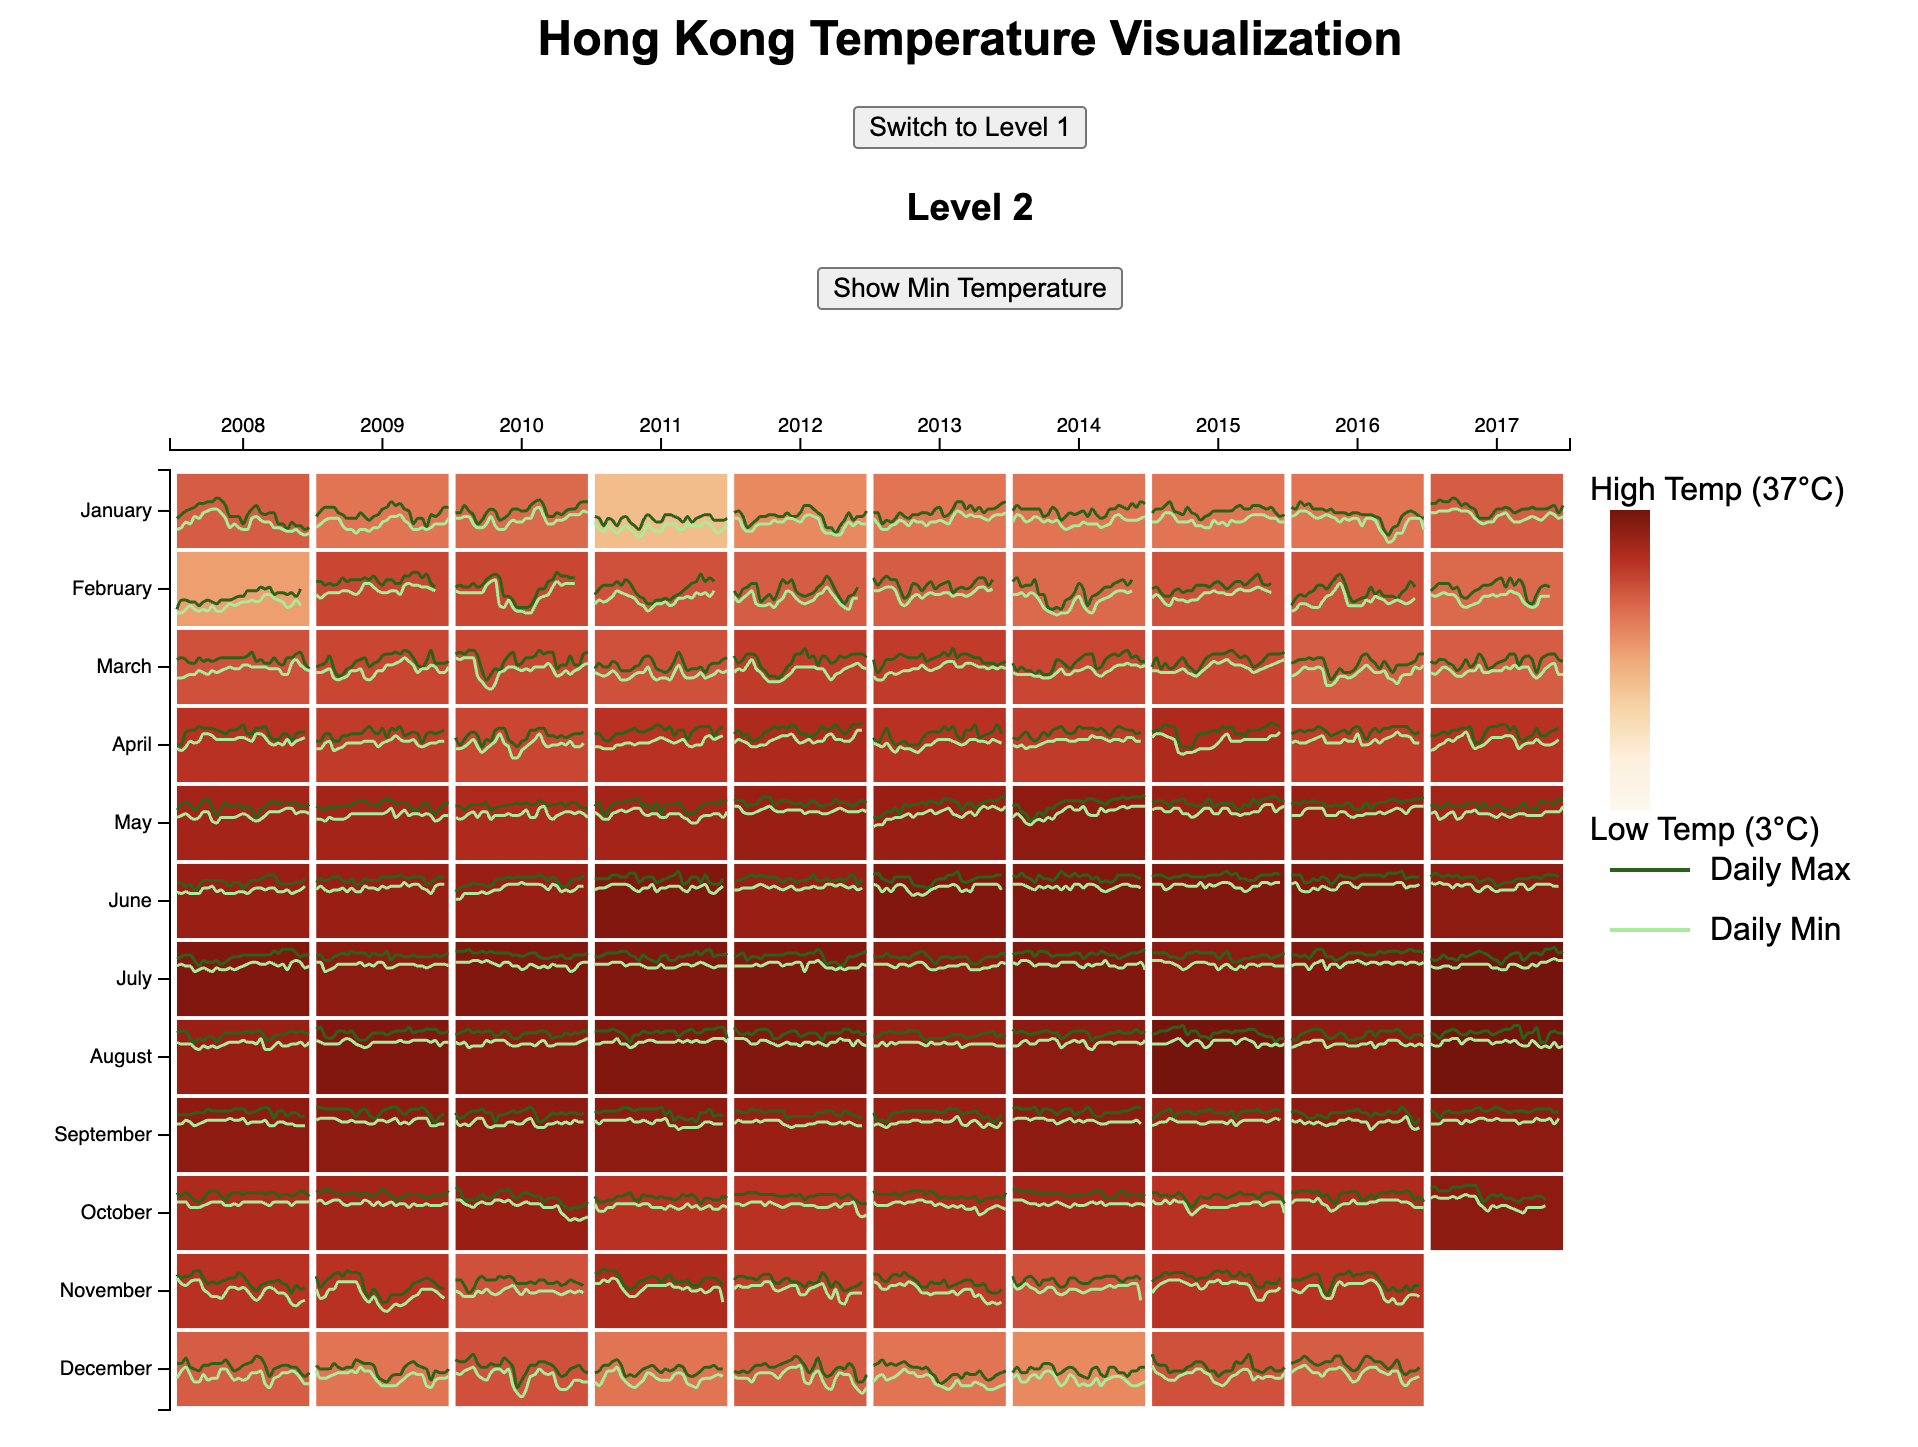
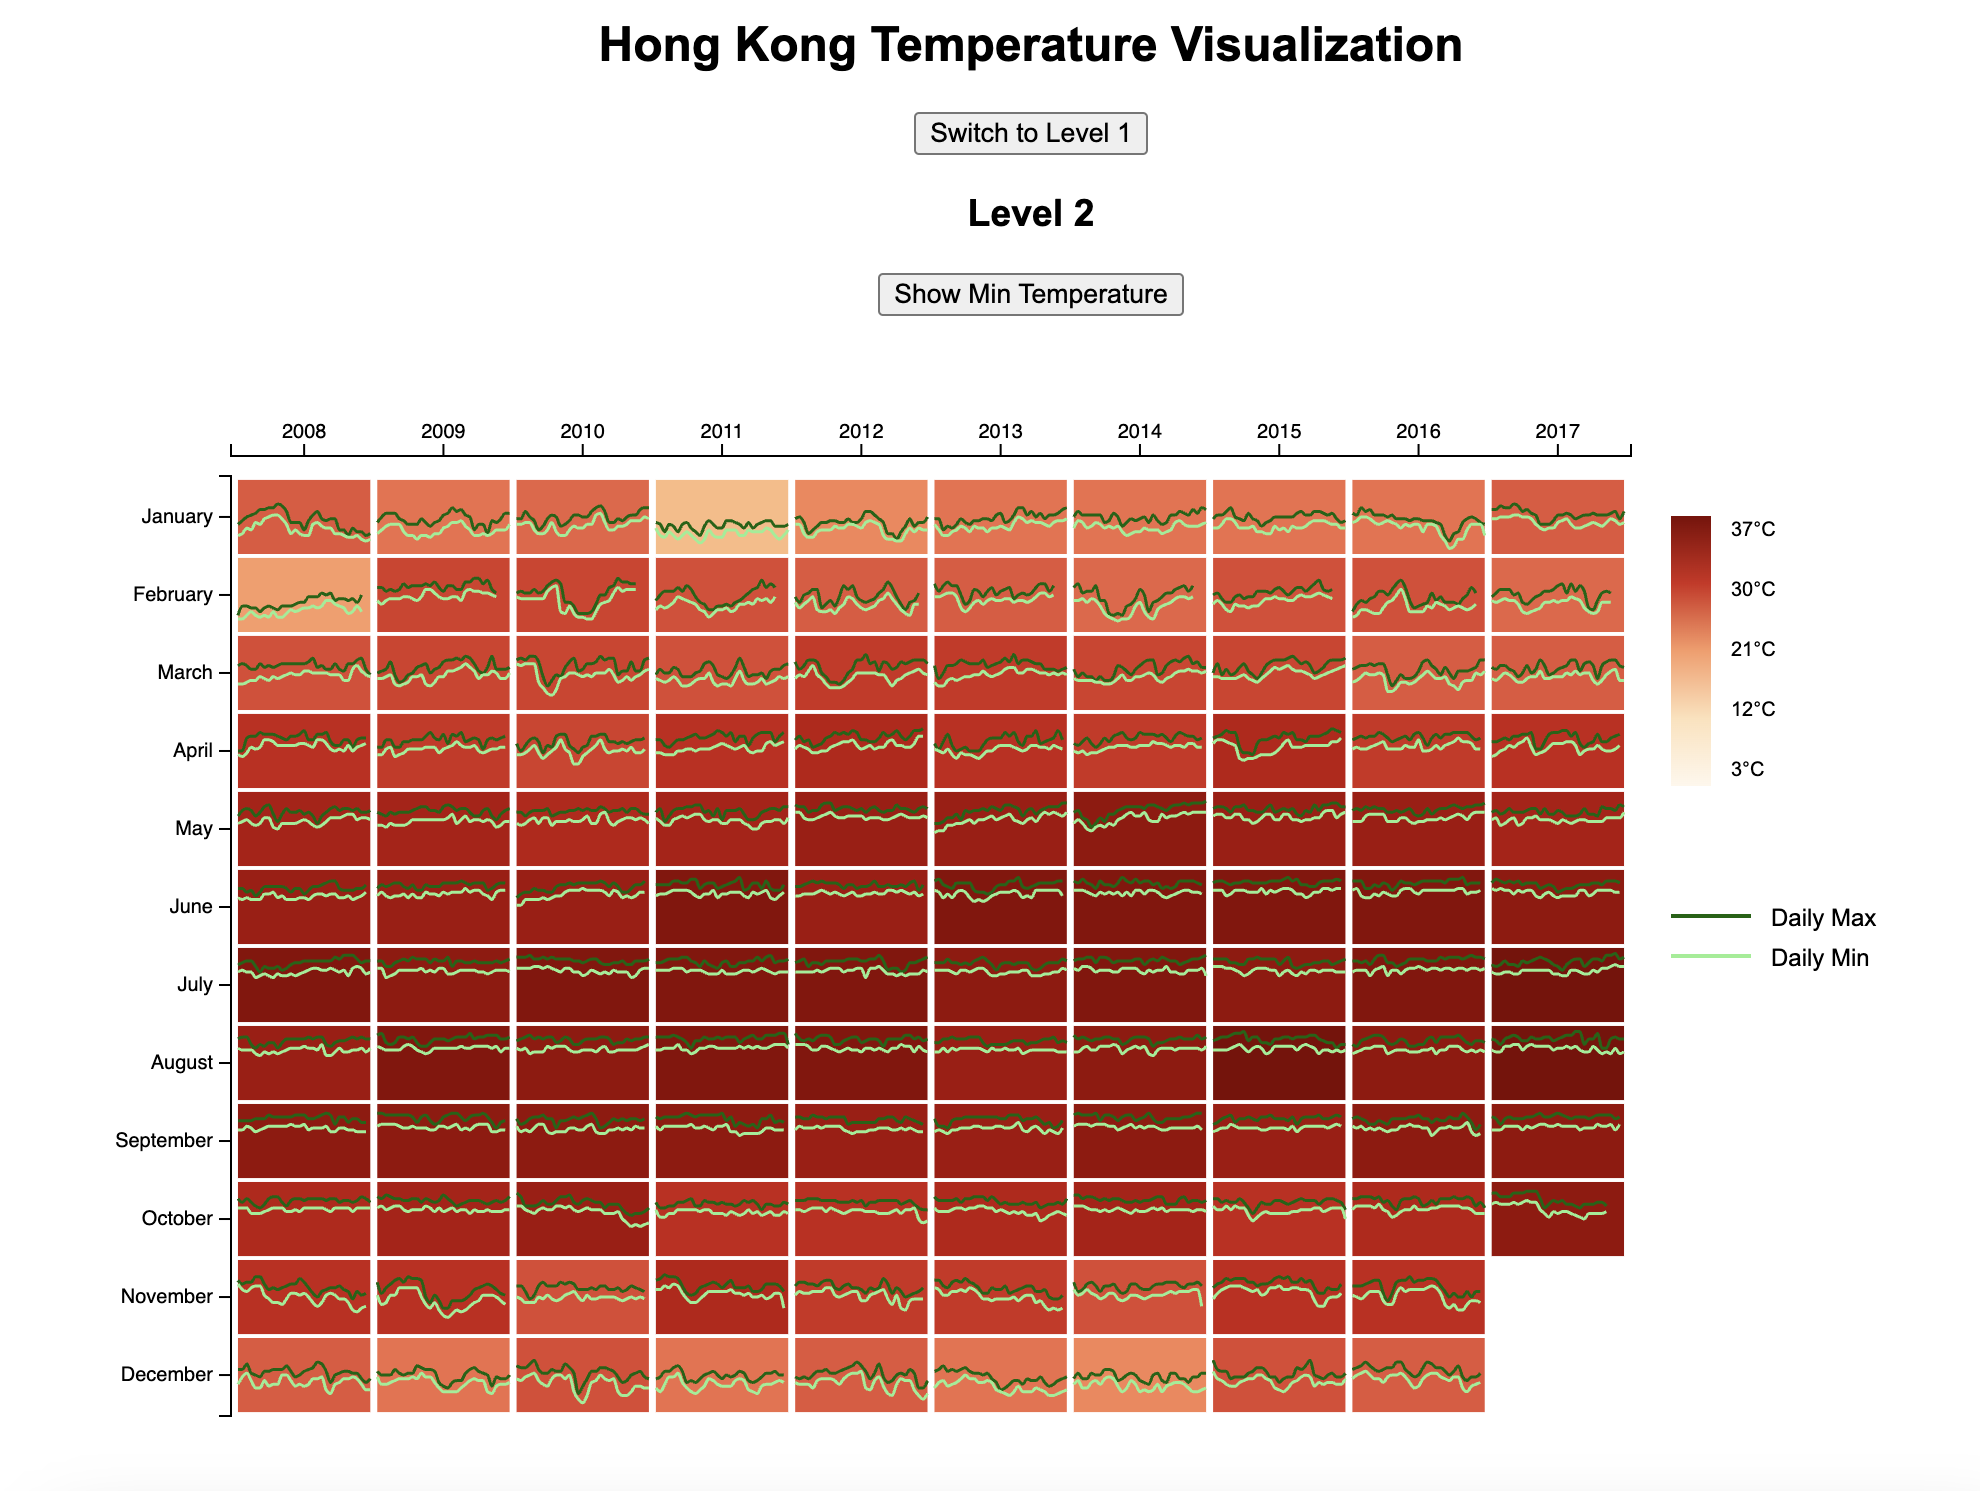
Add files via upload

Changed region(s): [[0.0308, 0.2799, 0.9536, 0.9952], [0.2769, 0.0, 0.7383, 0.1555], [0.4307, 0.1866, 0.6152, 0.2177]]

diff --git a/level2.js b/level2.js
@@ -159,14 +159,20 @@ function drawTrendLines(svg, groupedDataDaily, xScale, yScale) {
     });
 }
 
+// Function to draw the Level2's legend
 function drawLevel2Legend(svg, width, colorScale) {
     svg.selectAll(".legend-group").remove(); // Remove old legend if any
 
-    const legendGroup = svg.append("g").attr("class", "legend-group").attr("transform", `translate(${width + 20},20)`);
+    const legendGroup = svg.append("g")
+        .attr("class", "legend-group")
+        .attr("transform", `translate(${width + 20},20)`);
 
-    // Define min and max temperature values
+    // Define temperature values for legend stops
     const minTemp = 3;  
-    const maxTemp = 37;  
+    const midTemp1 = 12;  
+    const midTemp2 = 21;  
+    const midTemp3 = 30;  
+    const maxTemp = 37;   
 
     // Create a gradient for the legend
     const defs = legendGroup.append("defs");
@@ -175,38 +181,46 @@ function drawLevel2Legend(svg, width, colorScale) {
         .attr("x1", "0%").attr("x2", "0%")
         .attr("y1", "100%").attr("y2", "0%");
 
-    // Generate color stops 
-    const numStops = 6;
-    for (let i = 0; i <= numStops; i++) {
-        let t = i / numStops;
-        let tempValue = minTemp + t * (maxTemp - minTemp);
-        gradient.append("stop")
-            .attr("offset", `${t * 100}%`)
-            .attr("stop-color", colorScale(tempValue));
-    }
+    // Define temperature color stops
+    gradient.append("stop").attr("offset", "0%").attr("stop-color", colorScale(minTemp));  
+    gradient.append("stop").attr("offset", "25%").attr("stop-color", colorScale(midTemp1)); 
+    gradient.append("stop").attr("offset", "50%").attr("stop-color", colorScale(midTemp2)); 
+    gradient.append("stop").attr("offset", "75%").attr("stop-color", colorScale(midTemp3)); 
+    gradient.append("stop").attr("offset", "100%").attr("stop-color", colorScale(maxTemp)); 
 
-    // Draw legend box for temperature gradient
+    // Draw legend box for temperature gradient 
     legendGroup.append("rect")
         .attr("width", 20)
-        .attr("height", 150)
+        .attr("height", 135)  
         .style("fill", "url(#tempGradientLevel2)");
 
-    // Add labels for temperature gradient
-    legendGroup.append("text").attr("x", -10).attr("y", 165).text(`Low Temp (${minTemp}°C)`);
-    legendGroup.append("text").attr("x", -10).attr("y", -5).text(`High Temp (${maxTemp}°C)`);
+    // Add labels for min, max, and intermediate temperatures 
+    const labelXOffset = 30; // Shift text further right
+    const fontSize = "10px"; // Adjust font size 
+
+    legendGroup.append("text").attr("x", labelXOffset).attr("y", 130).attr("font-size", fontSize).text(`${minTemp}°C`);  
+    legendGroup.append("text").attr("x", labelXOffset).attr("y", 100).attr("font-size", fontSize).text(`${midTemp1}°C`); 
+    legendGroup.append("text").attr("x", labelXOffset).attr("y", 70).attr("font-size", fontSize).text(`${midTemp2}°C`);  
+    legendGroup.append("text").attr("x", labelXOffset).attr("y", 40).attr("font-size", fontSize).text(`${midTemp3}°C`);  
+    legendGroup.append("text").attr("x", labelXOffset).attr("y", 10).attr("font-size", fontSize).text(`${maxTemp}°C`);   
+
+    // Trend line legend
+    const trendLineYOffset = 200; 
+    const fontSize2 = "12px"; // Adjust font size 
 
     // Legend for Daily Max Trend Line (Dark Green)
     legendGroup.append("line")
-        .attr("x1", 0).attr("y1", 180).attr("x2", 40).attr("y2", 180)
+        .attr("x1", 0).attr("y1", trendLineYOffset).attr("x2", 40).attr("y2", trendLineYOffset)
         .attr("stroke", "darkgreen").attr("stroke-width", 2);
     legendGroup.append("text")
-        .attr("x", 50).attr("y", 185).text("Daily Max");
+        .attr("x", 50).attr("y", trendLineYOffset + 5).attr("font-size", fontSize2).text("Daily Max");
 
     // Legend for Daily Min Trend Line (Light Green)
     legendGroup.append("line")
-        .attr("x1", 0).attr("y1", 210).attr("x2", 40).attr("y2", 210)
+        .attr("x1", 0).attr("y1", trendLineYOffset + 20).attr("x2", 40).attr("y2", trendLineYOffset + 20)
         .attr("stroke", "lightgreen").attr("stroke-width", 2);
     legendGroup.append("text")
-        .attr("x", 50).attr("y", 215).text("Daily Min");
+        .attr("x", 50).attr("y", trendLineYOffset + 25).attr("font-size", fontSize2).text("Daily Min");
 }
+
 

diff --git a/level1.js b/level1.js
@@ -139,11 +139,16 @@ function drawAxes(svg, xScale, yScale) {
 function drawTemperatureLegend(svg, width, colorScale) {
     svg.selectAll(".legend-group").remove(); // Remove old legend if any
 
-    const legendGroup = svg.append("g").attr("class", "legend-group").attr("transform", `translate(${width + 20},20)`);
+    const legendGroup = svg.append("g")
+        .attr("class", "legend-group")
+        .attr("transform", `translate(${width + 20},20)`);
 
-    // Define static min and max temperature values
+    // Define temperature values for legend stops
     const minTemp = 3;  
-    const maxTemp = 37;  
+    const midTemp1 = 12;  // Cool
+    const midTemp2 = 21;  // Mild
+    const midTemp3 = 30;  // Warm
+    const maxTemp = 37;   // Hottest
 
     // Create a gradient for the legend
     const defs = legendGroup.append("defs");
@@ -152,23 +157,26 @@ function drawTemperatureLegend(svg, width, colorScale) {
         .attr("x1", "0%").attr("x2", "0%")
         .attr("y1", "100%").attr("y2", "0%");
 
-    // Define color stops dynamically for smooth transitions
-    const numStops = 6;
-    for (let i = 0; i <= numStops; i++) {
-        let t = i / numStops;
-        let tempValue = minTemp + t * (maxTemp - minTemp);
-        gradient.append("stop")
-            .attr("offset", `${t * 100}%`)
-            .attr("stop-color", colorScale(tempValue));
-    }
+    // Define temperature color stops
+    gradient.append("stop").attr("offset", "0%").attr("stop-color", colorScale(minTemp));  
+    gradient.append("stop").attr("offset", "25%").attr("stop-color", colorScale(midTemp1)); 
+    gradient.append("stop").attr("offset", "50%").attr("stop-color", colorScale(midTemp2)); 
+    gradient.append("stop").attr("offset", "75%").attr("stop-color", colorScale(midTemp3)); 
+    gradient.append("stop").attr("offset", "100%").attr("stop-color", colorScale(maxTemp)); 
 
     // Draw color bar for legend
     legendGroup.append("rect")
         .attr("width", 20)
-        .attr("height", 150)
+        .attr("height", 135)
         .style("fill", "url(#tempGradientLevel1)");
 
-    // Add labels for min and max temperature
-    legendGroup.append("text").attr("x", -10).attr("y", 165).text(`Low Temp (${minTemp}°C)`);
-    legendGroup.append("text").attr("x", -10).attr("y", -5).text(`High Temp (${maxTemp}°C)`);
+    // Add labels for min, max, and intermediate temperatures
+    const labelXOffset = 30; // Shift text further right
+    const fontSize = "10px";
+
+    legendGroup.append("text").attr("x", labelXOffset).attr("font-size", fontSize).attr("y", 130).text(`${minTemp}°C`);  
+    legendGroup.append("text").attr("x", labelXOffset).attr("font-size", fontSize).attr("y", 100).text(`${midTemp1}°C`); 
+    legendGroup.append("text").attr("x", labelXOffset).attr("font-size", fontSize).attr("y", 70).text(`${midTemp2}°C`);  
+    legendGroup.append("text").attr("x", labelXOffset).attr("font-size", fontSize).attr("y", 40).text(`${midTemp3}°C`);  
+    legendGroup.append("text").attr("x", labelXOffset).attr("font-size", fontSize).attr("y", 10).text(`${maxTemp}°C`);   
 }
